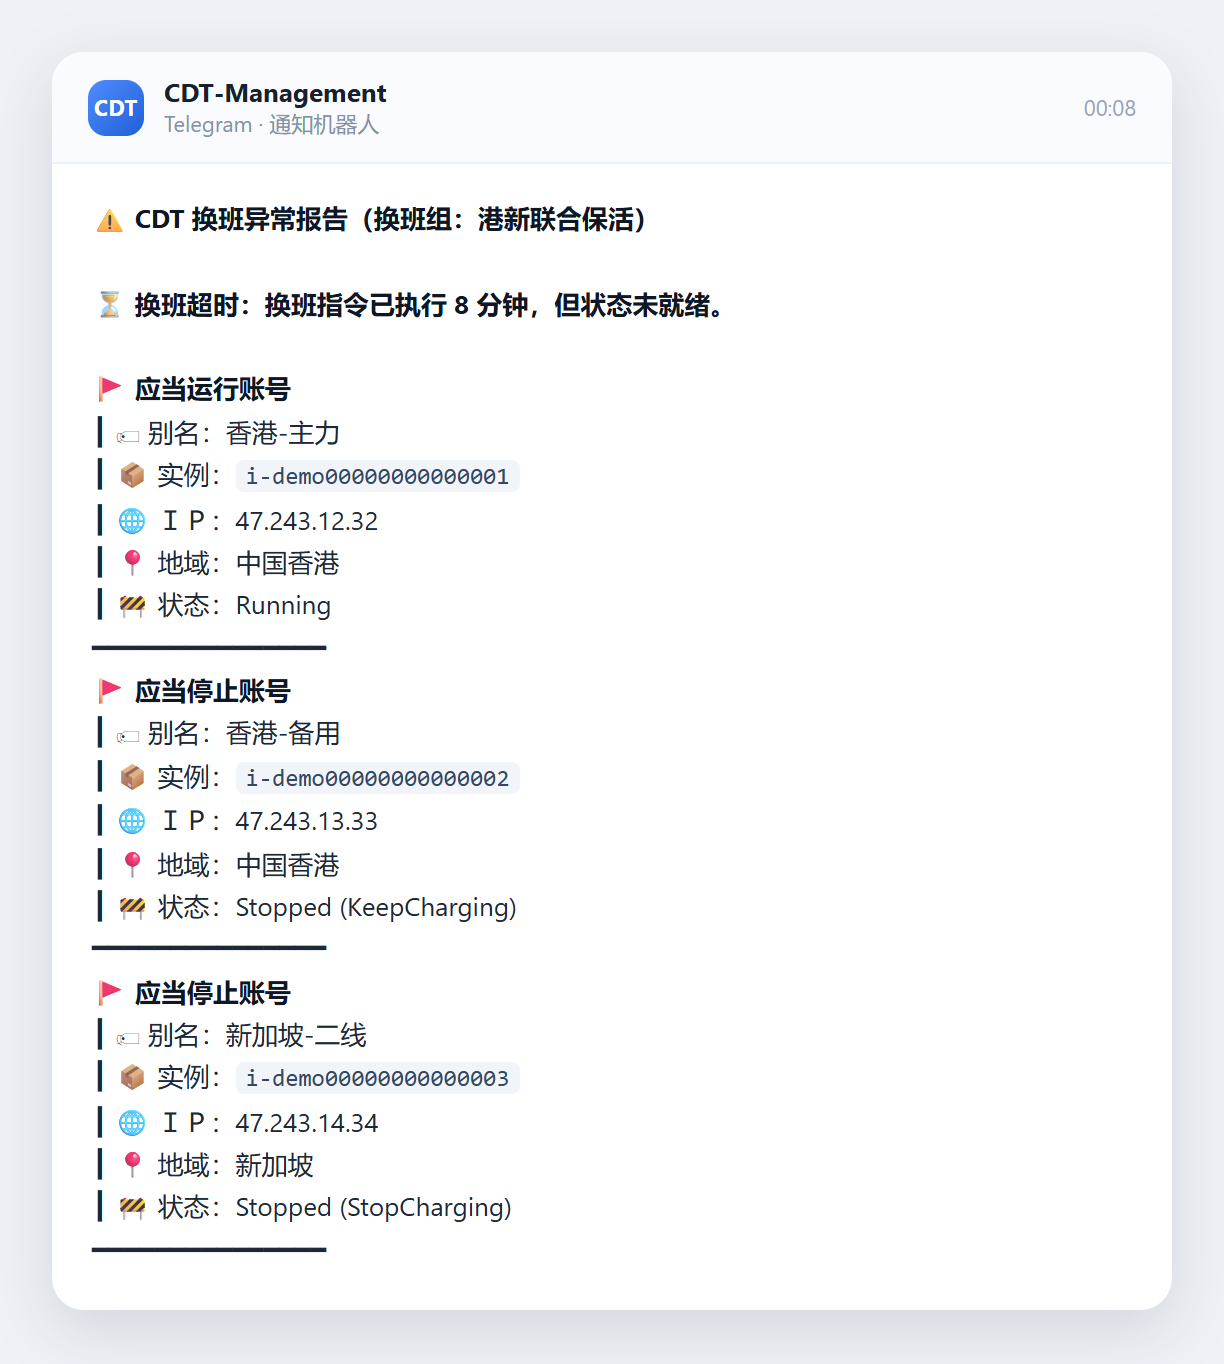
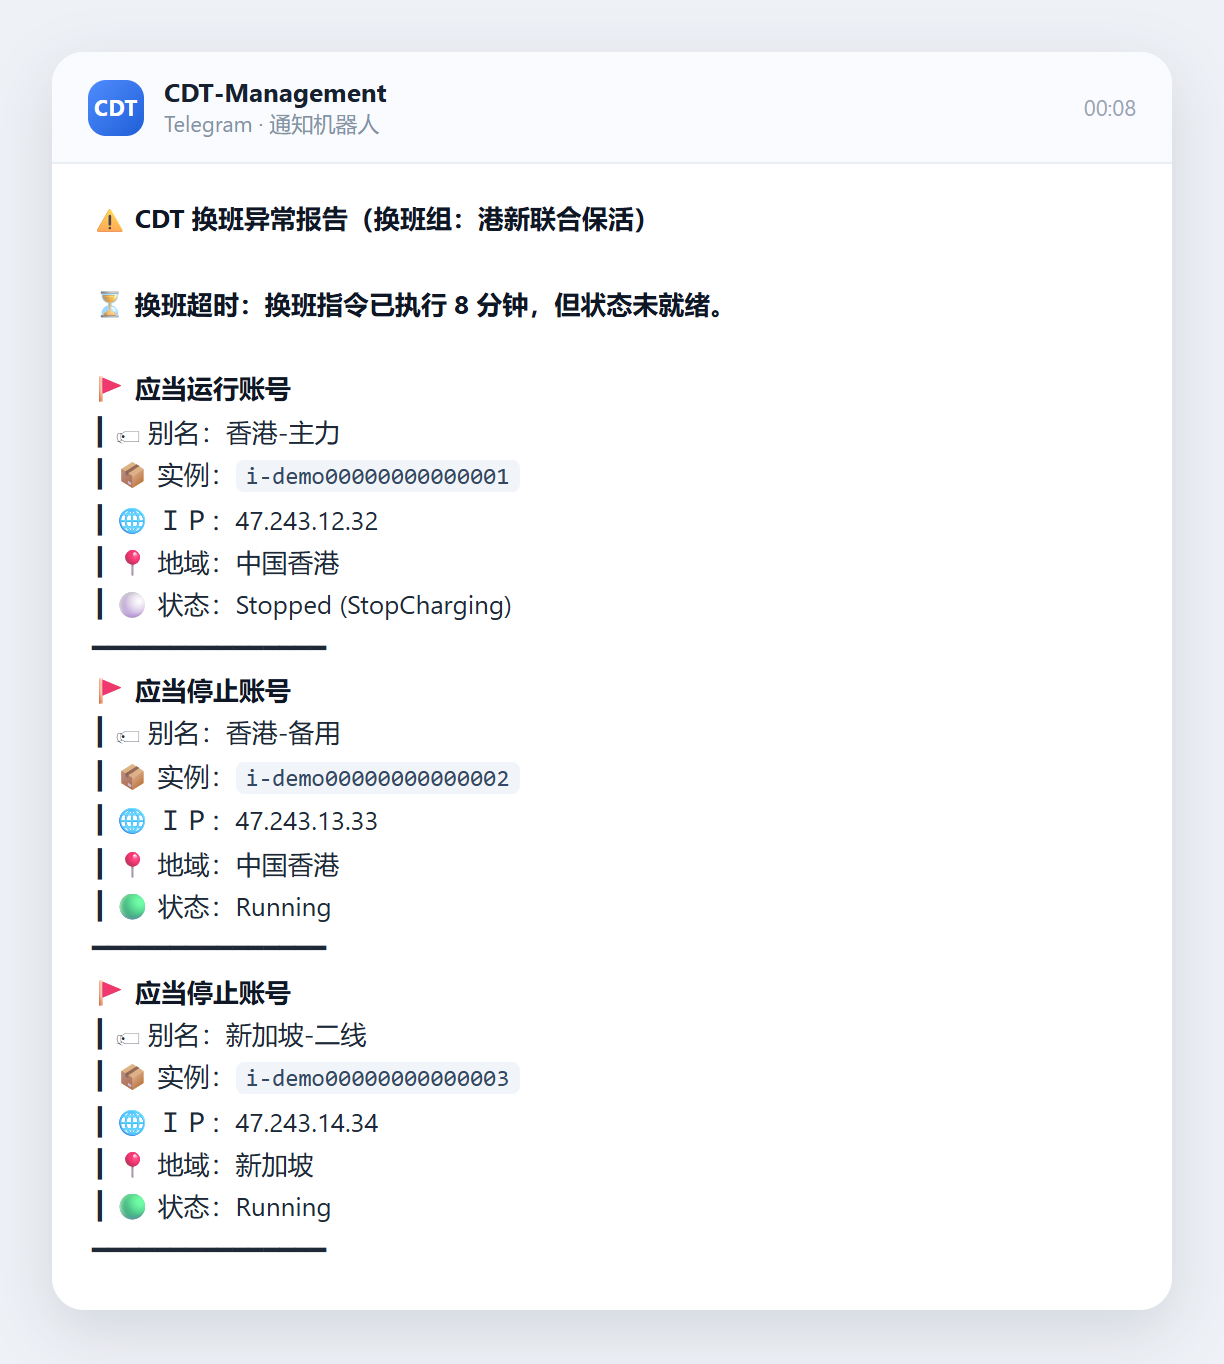
feat(notify): 全局熔断文案说明故障转移，换班异常状态图标随状态动态化

diff --git a/app/messages.py b/app/messages.py
@@ -124,6 +124,15 @@ def _status(server: dict[str, Any]) -> str:
     return f"{status} ({mode})" if mode and mode != "-" else status
 
 
+def _state_icon(server: dict[str, Any]) -> str:
+    """状态行图标：运行中 🟢，其余（停机 / 中间态）⚪。
+
+    换班异常报告里当班「应当运行」却超时未就绪，停机的那台该 ⚪；
+    应当停止的那台若还赖在 Running，该 🟢。写死 🚧 会让图标和状态文字打架。
+    """
+    return "🟢" if str(server.get("instance_status") or "") == "Running" else "⚪"
+
+
 def _used(server: dict[str, Any]) -> float:
     return float(server.get("traffic_used") or 0)
 
@@ -397,7 +406,8 @@ def limit_stop(server: dict[str, Any], group_name: str = "") -> notify.Message:
         title_of("全局熔断", group_name),
         "\n".join(
             [
-                "当班实例流量超限，已强制节省停机。",
+                "当班实例流量超限，该换班组没有启用故障转移，已强制节省停机。",
+                "如有需要，请开启故障转移或者去管理后台手动点击“立即换班”。",
                 "",
                 f"🖥 {_label(server)}",
                 f"┃ 📦 实例：<code>{_instance(server)}</code>",
@@ -484,7 +494,7 @@ def shift_error(
                 f"┃ 📦 实例：<code>{_instance(duty)}</code>",
                 f"┃ 🌐 ＩＰ：{_ip(duty)}",
                 f"┃ 📍 地域：{_region(duty)}",
-                f"┃ 🚧 状态：{_status(duty)}",
+                f"┃ {_state_icon(duty)} 状态：{_status(duty)}",
             ]
         )
     ]
@@ -497,7 +507,7 @@ def shift_error(
                     f"┃ 📦 实例：<code>{_instance(server)}</code>",
                     f"┃ 🌐 ＩＰ：{_ip(server)}",
                     f"┃ 📍 地域：{_region(server)}",
-                    f"┃ 🚧 状态：{_status(server)}",
+                    f"┃ {_state_icon(server)} 状态：{_status(server)}",
                 ]
             )
         )

diff --git a/scripts/test_messages.py b/scripts/test_messages.py
@@ -268,7 +268,8 @@ class OtherReports(unittest.TestCase):
         expected = (
             "🚨 <b>CDT 全局熔断报告（换班组）</b>\n"
             "\n"
-            "当班实例流量超限，已强制节省停机。\n"
+            "当班实例流量超限，该换班组没有启用故障转移，已强制节省停机。\n"
+            "如有需要，请开启故障转移或者去管理后台手动点击“立即换班”。\n"
             "\n"
             "🖥 AliCloud-CDT-PM\n"
             "┃ 📦 实例：<code>i-bbb222</code>\n"
@@ -330,11 +331,15 @@ class OtherReports(unittest.TestCase):
         self.assertEqual(message.title, "CDT 抢占恢复报告（换班组：港新联合）")
 
     def test_shift_error(self):
+        # duty=B 是 Stopped（该运行没运行 → ⚪），stopped=[A] 是 Running（该停没停 → 🟢）
         message = messages.shift_error(B, [A], 10)
         self.assertTrue(message.html.startswith("⚠ <b>CDT 换班异常报告（换班组）</b>\n\n"))
         self.assertIn("⏳ <b>换班超时：换班指令已执行 10 分钟，但状态未就绪。</b>", message.html)
         self.assertIn("🚩 <b>应当运行账号 </b>", message.html)
         self.assertIn("🚩 <b>应当停止账号 </b>", message.html)
+        # 状态图标跟着真实状态走，不再写死 🚧
+        self.assertIn("┃ ⚪ 状态：Stopped (StopCharging)", message.html)
+        self.assertIn("┃ 🟢 状态：Running", message.html)
 
     def test_every_notification_has_region_line(self):
         # 所有通知的实例块都要跟每日报告一样带「地域」行（IP 下面一行；熔断块没有 IP 行，

diff --git a/scripts/notify_shots.py b/scripts/notify_shots.py
@@ -141,6 +141,18 @@ THIRD_TAKEOVER = server(
     "新加坡-二线", "i-demo00000000000003", "47.243.14.34", "ap-southeast-1", 200, 96.08,
 )
 
+# 换班异常：当班该运行却超时没运行（Stopped → ⚪），standby 该停却还赖在 Running（→ 🟢）
+ERROR_DUTY = server(
+    "香港-主力", "i-demo00000000000001", "47.243.12.32", "cn-hongkong", 200, 148.62,
+    "Stopped", "StopCharging",
+)
+ERROR_STANDBY = server(
+    "香港-备用", "i-demo00000000000002", "47.243.13.33", "cn-hongkong", 200, 121.35,
+)
+ERROR_STANDBY2 = server(
+    "新加坡-二线", "i-demo00000000000003", "47.243.14.34", "ap-southeast-1", 200, 96.08,
+)
+
 GROUP = "港新联合保活"
 
 SHOTS = [
@@ -183,7 +195,7 @@ SHOTS = [
     (
         "20-notify-error",
         "换班异常报告",
-        messages.shift_error(MAIN, [BACKUP, THIRD], 8, group_name=GROUP),
+        messages.shift_error(ERROR_DUTY, [ERROR_STANDBY, ERROR_STANDBY2], 8, group_name=GROUP),
         "00:08",
     ),
     (
